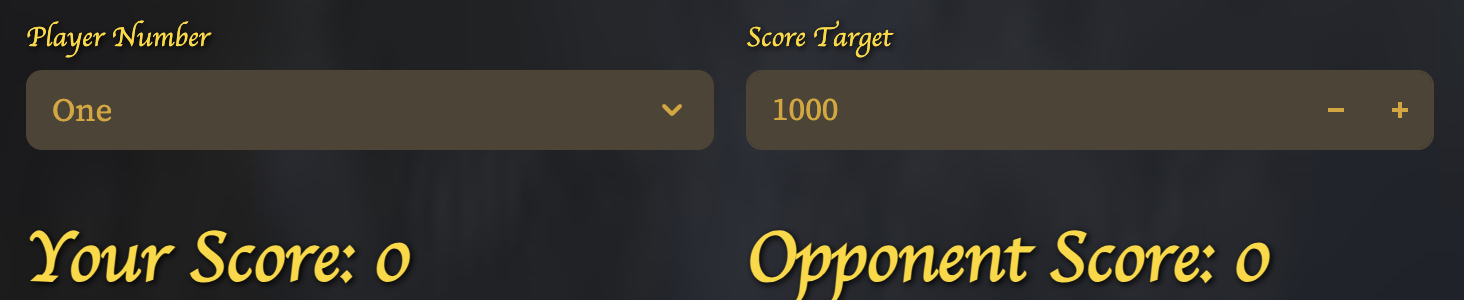
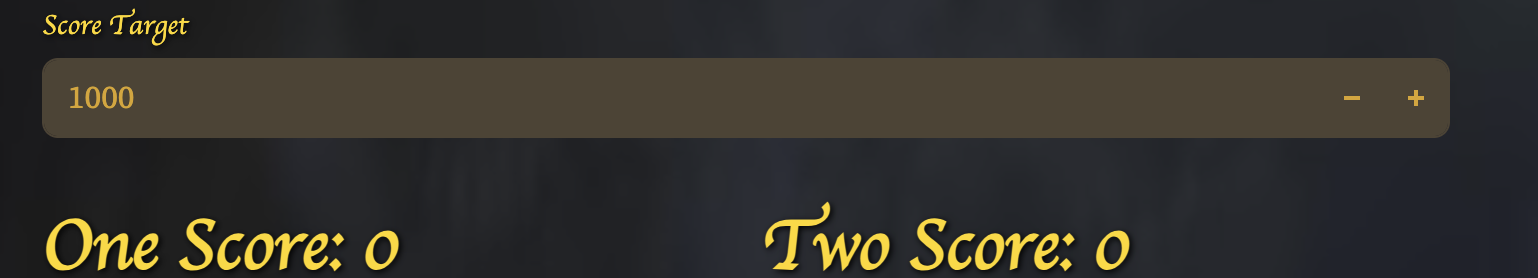
dynamic player selection

diff --git a/Streamlit/app.py b/Streamlit/app.py
@@ -79,6 +79,8 @@ if "cls_model" not in st.session_state:
     st.session_state.cls_model.load_state_dict(torch.load("../models/cls_model.pth", map_location=torch.device("mps")))
     st.session_state.cls_model.eval() 
     st.session_state.cls_model.to("mps")
+if "player_num" not in st.session_state:
+    st.session_state.player_num = "One"
 
 st.title("Dice!")
 game, rules = st.tabs(["Game","Rules"])
@@ -89,11 +91,8 @@ with rules:
 with game:
 
     game.text_input("Game name", key = "game_name", value = "temp")
-    player, game_type = game.columns(2)
-    with player:
-        player.selectbox("Player Number", ["One", "Two"], key = "player_num")
-    with game_type:
-        game_type.number_input("Score Target", value = 1000, key = "score_target", step =1)
+    
+    game.number_input("Score Target", value = 1000, key = "score_target", step =1)
     st.session_state.opponent_num = [p for p in ["One", "Two"] if p != st.session_state.player_num][0]
     if f'{st.session_state.game_name}.pkl' in os.listdir("./games/"):
         with open(f'./games/{st.session_state.game_name}.pkl', 'rb') as file:
@@ -111,14 +110,14 @@ with game:
         win_state = ""
         if st.session_state.scores[this_player] >= st.session_state.score_target and st.session_state.score_target > 0:
             win_state = "(Winner)"
-        col1.header(f"Your Score: {st.session_state.scores[st.session_state.player_num]} {win_state}")
+        col1.header(f"{st.session_state.player_num} Score: {st.session_state.scores[st.session_state.player_num]} {win_state}")
 
     with col2:
         this_player = st.session_state.opponent_num
         win_state = ""
         if st.session_state.scores[this_player] >= st.session_state.score_target and st.session_state.score_target > 0:
             win_state = "(Winner)"
-        col2.header(f"Opponent Score: {st.session_state.scores[st.session_state.opponent_num]} {win_state}")
+        col2.header(f"{st.session_state.opponent_num} Score: {st.session_state.scores[st.session_state.opponent_num]} {win_state}")
 
 
     game.checkbox("Enable Capture", key="start_capture")
@@ -179,4 +178,5 @@ with game:
                 pickle.dump(st.session_state.scores, file, protocol=pickle.HIGHEST_PROTOCOL)
                 st.session_state.selections = []
                 st.session_state.current_score = 0
+                st.session_state.player_num = "One" if st.session_state.player_num == "Two" else "Two"
             st.rerun()

diff --git a/Readme.md b/Readme.md
@@ -21,7 +21,7 @@
 
 ![](./Streamlit/images/start_new_game.png)
 
-2) Select Player and a Target Score for the game.
+2) Select Target Score for the game.
 ![](./Streamlit/images/player_and_score_set.png)
 
 3) Roll your dice and check Enable capture
